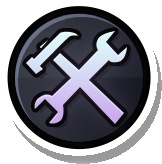
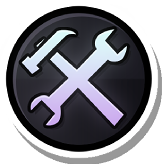
added various sizes to fix alignment issues

diff --git a/src/main.cpp b/src/main.cpp
@@ -7,17 +7,9 @@ using namespace geode::prelude;
 class $modify(UpdatedMenuLayer, MenuLayer) {
 	bool init() {
 
-		if (!MenuLayer::init()) {
-			return false;
-		}
 
-		auto EditorShortcutButton = CCMenuItemSpriteExtra::create(
-			CCSprite::create("editorShortcutBtn001.png"_spr),
-			this,
-	
-			menu_selector(UpdatedMenuLayer::onEditorShortcutButton)
-		);
 		auto location = "side-menu"; //initializes as side-menu as fallback
+		auto buttonStyle = "editorShortcutBtn001.png"_spr;
 		std::string locationSetting = Mod::get()->getSettingValue<std::string>("button_location");
 		
 		if (locationSetting == "left") {
@@ -26,18 +18,34 @@ class $modify(UpdatedMenuLayer, MenuLayer) {
 			location = "right-side-menu";
 		} else if (locationSetting == "bottom") {
 			location = "bottom-menu";
+			buttonStyle = "editorShortcutBtn003.png"_spr;
 		} else if (locationSetting == "center") {
 			location = "main-menu";
+			buttonStyle = "editorShortcutBtn002.png"_spr;
 		} else if (locationSetting == "top left") {
 			location = "close-menu";
+			buttonStyle = "editorShortcutBtn005.png"_spr;
 		} else if (locationSetting == "top right") {
 			location = "top-right-menu";
 		}
+
+		
+		if (!MenuLayer::init()) {
+			return false;
+		}
+
+		auto EditorShortcutButton = CCMenuItemSpriteExtra::create(
+			CCSprite::create(buttonStyle),
+			this,
+	
+			menu_selector(UpdatedMenuLayer::onEditorShortcutButton)
+		);
+		
 		
 		auto menu = this->getChildByID(location);
 		menu->addChild(EditorShortcutButton);
 
-		EditorShortcutButton->setID("EditorShortcut-button"_spr);
+		EditorShortcutButton->setID("EditorShortcut-button");
 
 		menu->updateLayout();
 
